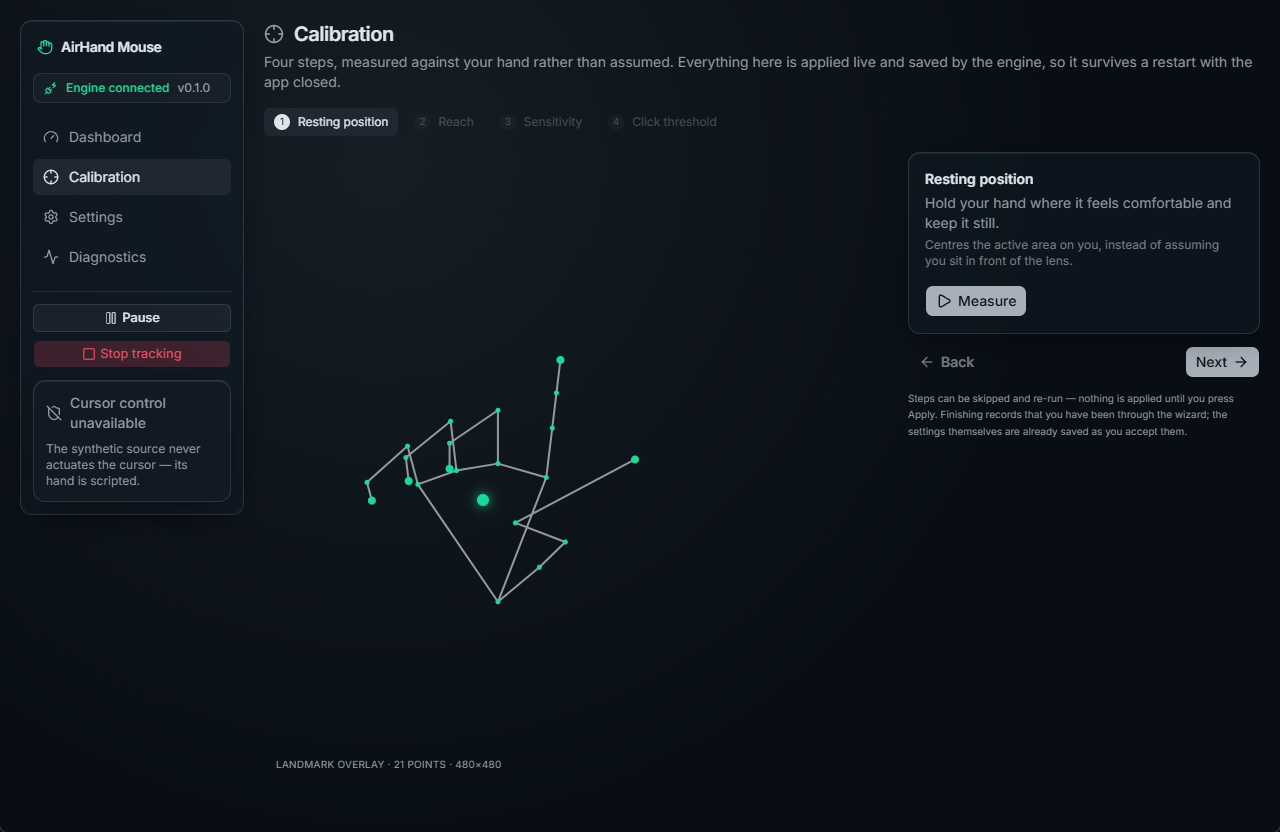
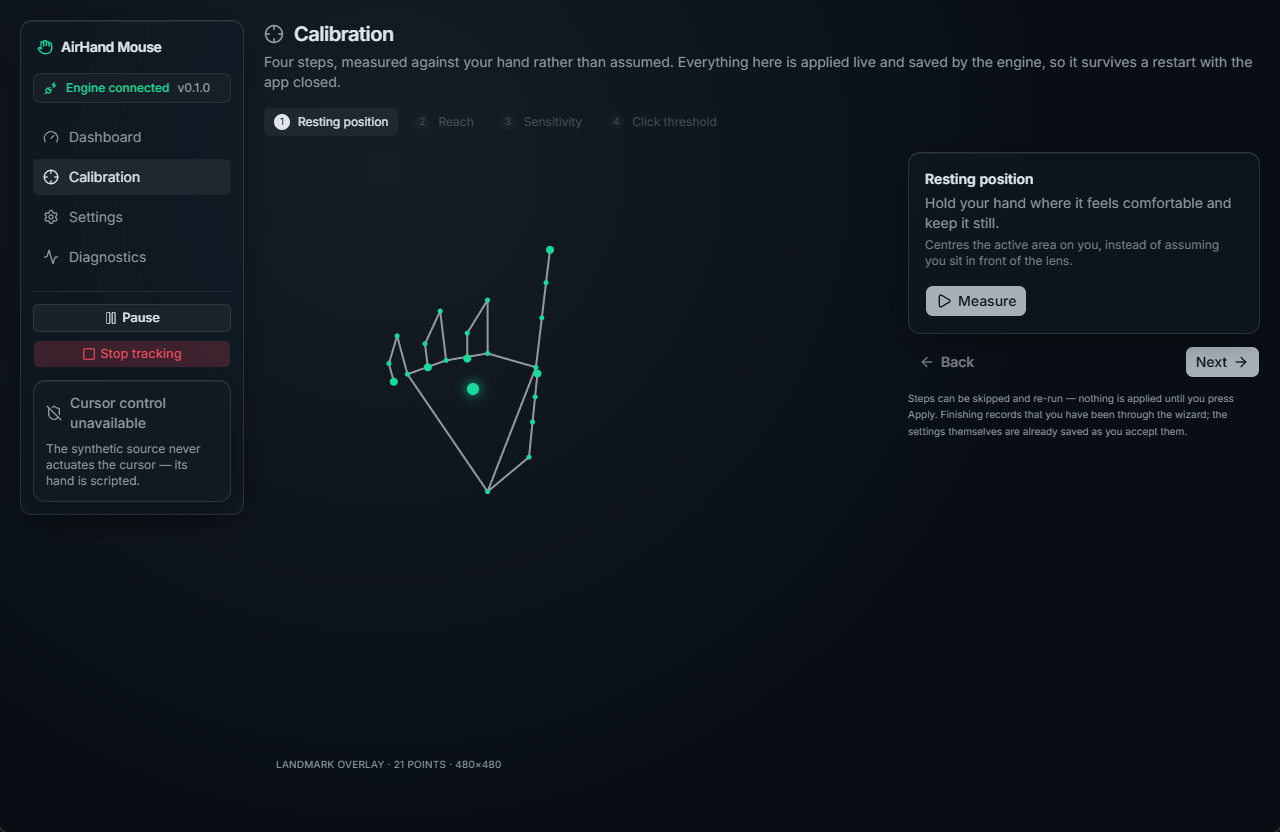
Draw a synthetic hand that a hand could make
The fixture placed the thumb tip wherever the requested pinch distance required and left the rest
of the thumb where the pose had put it. Every measurement it exists to provide came out correct,
and the drawn hand had a fingertip flung across the frame with a bone stretched to reach it. The
curl had the same shape of problem: a fixed sideways offset, applied to a long middle finger and a
short pinky alike, threw curled fingertips past the edge of the palm and across their neighbours'
knuckles.

Nobody noticed for eleven passes because the tests only ever measured this geometry. It is also
drawn — on the landmark overlay, which is the main surface of the app — and `--source synthetic`
exists precisely so the interface can be worked on without a webcam. A fixture that measures right
and looks impossible does half the job it was built for.

Now the whole thumb reaches: knuckle, joints and tip all sit on the line toward the fingertip it is
closing on, which is the direction a thumb actually travels. The sideways part of a curl is a
fraction of the finger's own length.

What did not change is the number the Gesture Engine reads. The requested gap is still exact, and
all 219 existing tests pass untouched — including the ones whose thresholds were tuned against this
fixture from real recordings.

One boundary the geometry imposes and the old code hid: a curled fingertip sits close to the
[…]

Changed region(s): [[0.3125, 0.375, 0.4375, 0.6562], [0.375, 0.6875, 0.4062, 0.7188]]

diff --git a/backend/tests/test_handmodel.py b/backend/tests/test_handmodel.py
@@ -1,0 +1,102 @@
+"""Synthetic hand geometry.
+
+The fixture is read two ways: the gesture tests measure it, and the synthetic telemetry source
+draws it on the UI's landmark overlay. It used to satisfy only the first. A pose can measure
+exactly right and still be impossible to make with a hand — and since `--source synthetic` exists
+so the interface can be worked on without a webcam, an impossible-looking hand undermines the one
+job that source has.
+"""
+
+from __future__ import annotations
+
+import math
+
+import pytest
+
+from airhand.handmodel import _MIN_THUMB_REACH
+from tests.fixtures.hands import FIST, OPEN_HAND, POINTING, SCROLL_POSE, make_hand
+
+THUMB_CHAIN = (1, 2, 3, 4)
+INDEX_TIP = 8
+MIDDLE_TIP = 12
+
+POSES = [OPEN_HAND, POINTING, SCROLL_POSE, FIST]
+GAPS = [0.15, 0.35, 0.55, 0.9, 1.10]
+
+
+def _distance(a: list[float], b: list[float]) -> float:
+    return math.hypot(a[0] - b[0], a[1] - b[1])
+
+
+@pytest.mark.parametrize("gap", GAPS)
+@pytest.mark.parametrize("pose", POSES)
+def test_the_requested_pinch_gap_is_what_the_hand_measures(pose, gap: float) -> None:
+    """The gap is the quantity the Gesture Engine thresholds on, so it is a contract, not a hint.
+
+    With one boundary, which the geometry imposes rather than the code: a curled fingertip sits
+    close to the thumb's own knuckle, so a gap wider than that distance cannot be held without the
+    thumb pointing away from the finger it is open against. There the thumb stops at its knuckle
+    and the pose stays unambiguously open, which is all a caller asking for 1.1 ever wanted.
+
+    Scale 1.0 and aspect 1.0 make normalized distance and hand-scale units the same number.
+    """
+    resting = make_hand(pose, scale=1.0, aspect=1.0)
+
+    for target, kwargs in ((INDEX_TIP, {"pinch_index": gap}), (MIDDLE_TIP, {"pinch_middle": gap})):
+        hand = make_hand(pose, scale=1.0, aspect=1.0, **kwargs)
+        measured = _distance(hand[4], hand[target])
+
+        # Where the boundary sits is the implementation's business; that there is one, and what
+        # happens on each side of it, is this test's.
+        if gap <= _distance(resting[1], resting[target]) - _MIN_THUMB_REACH:
+            assert measured == pytest.approx(gap, abs=1e-3)
+        else:
+            assert measured < gap
+            assert measured > 0.5, "an unreachable gap must still read as an open hand"
+
+
+@pytest.mark.parametrize("gap", GAPS)
+@pytest.mark.parametrize("pose", POSES)
+def test_the_thumb_stays_a_thumb_while_it_reaches(pose, gap: float) -> None:
+    """No joint may sit further from the knuckle than the joint after it.
+
+    This is what failed before: the tip was moved on its own to wherever the pinch distance
+    required, leaving the knuckle behind and drawing a bone across the palm to a landmark no hand
+    could reach.
+    """
+    hand = make_hand(pose, scale=1.0, aspect=1.0, pinch_index=gap)
+    knuckle = hand[THUMB_CHAIN[0]]
+    spans = [_distance(knuckle, hand[index]) for index in THUMB_CHAIN[1:]]
+
+    assert spans == sorted(spans)
+    assert spans[0] > 0.0
+
+
+def test_a_resting_thumb_sits_where_the_hand_puts_it() -> None:
+    """The demo script's open value must not deform the hand it is drawn on.
+
+    `_OPEN` in `telemetry.py` is 0.9 — "not pinching", not "reaching somewhere specific". At that
+    distance the thumb should look untouched, which means its reach from the knuckle should land
+    within a few per cent of the length the pose itself would have given it.
+    """
+    resting = make_hand(OPEN_HAND, scale=1.0, aspect=1.0)
+    reaching = make_hand(OPEN_HAND, scale=1.0, aspect=1.0, pinch_index=0.9)
+
+    natural = _distance(resting[1], resting[4])
+    assert _distance(reaching[1], reaching[4]) == pytest.approx(natural, rel=0.05)
+
+
+def test_the_thumb_never_folds_back_through_its_own_knuckle() -> None:
+    """A gap wider than the hand is asked for by the demo's fist step, which is never drawn.
+
+    Left unguarded it produced a negative reach — a thumb pointing away from the finger it was
+    supposedly holding open against.
+    """
+    hand = make_hand(FIST, scale=1.0, aspect=1.0, pinch_index=3.0)
+    knuckle, tip = hand[1], hand[4]
+    target = hand[INDEX_TIP]
+
+    toward_target = (target[0] - knuckle[0], target[1] - knuckle[1])
+    toward_tip = (tip[0] - knuckle[0], tip[1] - knuckle[1])
+
+    assert toward_target[0] * toward_tip[0] + toward_target[1] * toward_tip[1] > 0.0

diff --git a/backend/airhand/handmodel.py b/backend/airhand/handmodel.py
@@ -15,6 +15,7 @@ apparent hand size and every distance below reads as a multiple of it.
 
 from __future__ import annotations
 
+import math
 from dataclasses import dataclass
 
 Point = tuple[float, float]
@@ -93,8 +94,13 @@ def _finger_points(finger: str, extended: bool) -> list[Point]:
 
     # Curled: the segment beyond the PIP folds back toward the palm and slightly across it, which
     # puts the angle at the PIP well under any sane "extended" threshold.
+    #
+    # The sideways part is a fraction of the finger's own length rather than a fixed offset. As a
+    # constant it moved a short pinky as far as a long middle finger, which drew curled fingertips
+    # out past the edge of the palm and across their neighbours' knuckles — every curled pose came
+    # out as a knot of crossing bones.
     back = (-dx, -dy)
-    across = (-dy * 0.35, dx * 0.35)
+    across = (-dy * 0.16 * length, dx * 0.16 * length)
     dip = (
         pip[0] + back[0] * length * 0.26 + across[0],
         pip[1] + back[1] * length * 0.26 + across[1],
@@ -106,9 +112,34 @@ def _finger_points(finger: str, extended: bool) -> list[Point]:
     return [mcp, pip, dip, tip]
 
 
-def _offset_from(target: Point, gap: float) -> Point:
-    """Place the thumb tip `gap` hand-scale units from a fingertip, along a fixed direction."""
-    return (target[0] - gap * 0.6, target[1] + gap * 0.8)
+# A thumb that reaches for a fingertip may stretch, but it may never fold back through its own
+# knuckle. Only reachable when the requested gap exceeds the distance to the fingertip — a fist
+# asked to hold its thumb wide open, which the demo script does and never draws.
+_MIN_THUMB_REACH = 0.10
+
+
+def _thumb_reaching(target: Point, gap: float) -> list[Point]:
+    """Thumb chain that reaches toward `target` and stops `gap` hand-scale units short of it.
+
+    Everything sits on the line from the thumb knuckle to the fingertip, which is the direction a
+    thumb actually travels when it reaches for one. The previous version moved the tip alone, along
+    a fixed diagonal that ignored where the rest of the thumb was: the measured pinch distance came
+    out right, and the drawn hand had a thumb tip flung across the frame with a bone stretched to
+    meet it. The overlay is how this fixture is read during UI work, so a pose that measures
+    correctly and looks impossible is only half a fixture.
+
+    `gap` is preserved exactly, because it is the quantity the Gesture Engine thresholds on.
+    """
+    mcp = _MCP["thumb"]
+    span = math.hypot(target[0] - mcp[0], target[1] - mcp[1])
+    toward = ((target[0] - mcp[0]) / span, (target[1] - mcp[1]) / span)
+    reach = max(span - gap, _MIN_THUMB_REACH)
+    return [
+        mcp,
+        (mcp[0] + toward[0] * reach * 0.42, mcp[1] + toward[1] * reach * 0.42),
+        (mcp[0] + toward[0] * reach * 0.72, mcp[1] + toward[1] * reach * 0.72),
+        (mcp[0] + toward[0] * reach, mcp[1] + toward[1] * reach),
+    ]
 
 
 def make_hand(
@@ -136,14 +167,16 @@ def make_hand(
         for landmark_index, point in zip(chain, _finger_points(finger, pose.extended(finger))):
             points[landmark_index] = point
 
-    if pinch_index is not None:
-        target = points[8]
+    reach_for = 8 if pinch_index is not None else 12 if pinch_middle is not None else None
+    if reach_for is not None:
+        gap = pinch_index if pinch_index is not None else pinch_middle
+        assert gap is not None
+        target = points[reach_for]
         assert target is not None
-        points[4] = _offset_from(target, pinch_index)
-    elif pinch_middle is not None:
-        target = points[12]
-        assert target is not None
-        points[4] = _offset_from(target, pinch_middle)
+        # The whole thumb moves, not just its tip: the pose placed a thumb that is not reaching for
+        # anything, and only the tip of it is being asked to.
+        for landmark_index, point in zip(_CHAIN["thumb"], _thumb_reaching(target, gap)):
+            points[landmark_index] = point
 
     landmarks: list[list[float]] = []
     for point in points:

diff --git a/backend/README.md b/backend/README.md
@@ -184,13 +184,14 @@ removes the handshake file, a hard kill does not.
 .\.venv\Scripts\python.exe -m pytest
 ```
 
-219 tests, no webcam required. They cover ephemeral port binding, atomic handshake writes, token
+261 tests, no webcam required. They cover ephemeral port binding, atomic handshake writes, token
 auth, protocol-version agreement, telemetry shape, `stop` halting the stream, duplicate-frame
 suppression, model presence, blank/noise frame handling, out-of-order timestamps, the
 missing-camera error path, gesture classification, hysteresis and dropout grace, cursor mapping and
 actuation safety, the pointer stage's anchor, hold and dropout rules, the settings channel's
-validation, persistence and flag precedence, and the preview stream's opt-in, throttling and
-teardown.
+validation, persistence and flag precedence, the preview stream's opt-in, throttling and teardown,
+and the synthetic hand's own geometry — that a pose measures what it claims *and* could be made by
+a hand.
 
 Detection *quality* is not covered — that needs a real hand in front of a real camera. What the
 suite proves is wiring, contracts and failure handling.

diff --git a/README.md b/README.md
@@ -204,7 +204,7 @@ handshake file — see [`apps/desktop/README.md`](apps/desktop/README.md).
 ### Checks
 
 ```powershell
-cd backend;            .\.venv\Scripts\python.exe -m pytest       # 219 tests, no webcam required
+cd backend;            .\.venv\Scripts\python.exe -m pytest       # 261 tests, no webcam required
 cd apps\desktop;       npx tsc --noEmit -p tsconfig.app.json
                        npm run lint                               # oxlint, not eslint
                        npm run test                               # 56 tests
@@ -212,7 +212,7 @@ cd apps\desktop;       npx tsc --noEmit -p tsconfig.app.json
 cd src-tauri;          cargo test                                 # 11 tests
 ```
 
-286 tests in total. They cover the wire contract, the handshake, gesture classification, cursor
+328 tests in total. They cover the wire contract, the handshake, gesture classification, cursor
 mapping and every actuation safety rule, the settings channel, calibration derivation and the
 preview stream. Detection *quality* is not among them — that needs a real hand in front of a real
 camera.
